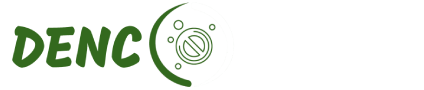
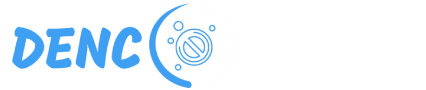
color change

Changed region(s): [[0.0307, 0.0222, 0.5212, 0.9778]]

diff --git a/src/index.css b/src/index.css
@@ -16,8 +16,8 @@
     --popover: 220 15% 10%;
     --popover-foreground: 210 20% 95%;
 
-    /* Industrial Dark Green Accent - #33691e */
-    --primary: 88 51% 26%;
+    /* Blue Accent - #2491ef */
+    --primary: 207 86% 45%;
     --primary-foreground: 210 20% 95%;
 
     /* Steel Gray */
@@ -28,8 +28,8 @@
     --muted: 220 10% 18%;
     --muted-foreground: 215 15% 55%;
 
-    /* Forest Green Accent - #33691e */
-    --accent: 88 51% 26%;
+    /* Blue Accent - #2491ef */
+    --accent: 207 86% 45%;
     --accent-foreground: 210 20% 95%;
 
     --destructive: 0 84% 60%;
@@ -37,7 +37,7 @@
 
     --border: 220 10% 20%;
     --input: 220 10% 18%;
-    --ring: 88 51% 26%;
+    --ring: 207 86% 45%;
 
     --radius: 0.5rem;
 
@@ -45,17 +45,17 @@
     --steel: 220 10% 30%;
     --steel-light: 220 10% 45%;
     --iron: 220 15% 15%;
-    --copper: 88 51% 26%;
-    --spark: 88 51% 35%;
+    --copper: 207 86% 45%;
+    --spark: 207 86% 55%;
     
     /* Gradients */
     --gradient-hero: linear-gradient(135deg, hsl(220 15% 8%) 0%, hsl(220 15% 15%) 100%);
     --gradient-steel: linear-gradient(180deg, hsl(220 10% 18%) 0%, hsl(220 15% 12%) 100%);
-    --gradient-accent: linear-gradient(135deg, hsl(88 51% 26%) 0%, hsl(88 51% 32%) 100%);
+    --gradient-accent: linear-gradient(135deg, hsl(207 86% 45%) 0%, hsl(207 86% 52%) 100%);
     --gradient-overlay: linear-gradient(180deg, hsla(220, 15%, 8%, 0.7) 0%, hsla(220, 15%, 8%, 0.9) 100%);
     
     /* Shadows */
-    --shadow-glow: 0 0 40px hsla(88, 51%, 26%, 0.3);
+    --shadow-glow: 0 0 40px hsla(207, 86%, 45%, 0.3);
     --shadow-card: 0 10px 40px -10px hsla(0, 0%, 0%, 0.5);
     --shadow-elevated: 0 25px 50px -12px hsla(0, 0%, 0%, 0.6);
   }
@@ -67,19 +67,19 @@
     --card-foreground: 210 20% 95%;
     --popover: 220 15% 10%;
     --popover-foreground: 210 20% 95%;
-    --primary: 88 51% 26%;
+    --primary: 207 86% 45%;
     --primary-foreground: 210 20% 95%;
     --secondary: 220 10% 20%;
     --secondary-foreground: 210 20% 95%;
     --muted: 220 10% 18%;
     --muted-foreground: 215 15% 55%;
-    --accent: 88 51% 26%;
+    --accent: 207 86% 45%;
     --accent-foreground: 210 20% 95%;
     --destructive: 0 62.8% 30.6%;
     --destructive-foreground: 210 40% 98%;
     --border: 220 10% 20%;
     --input: 220 10% 18%;
-    --ring: 88 51% 26%;
+    --ring: 207 86% 54%;
   }
 }
 
